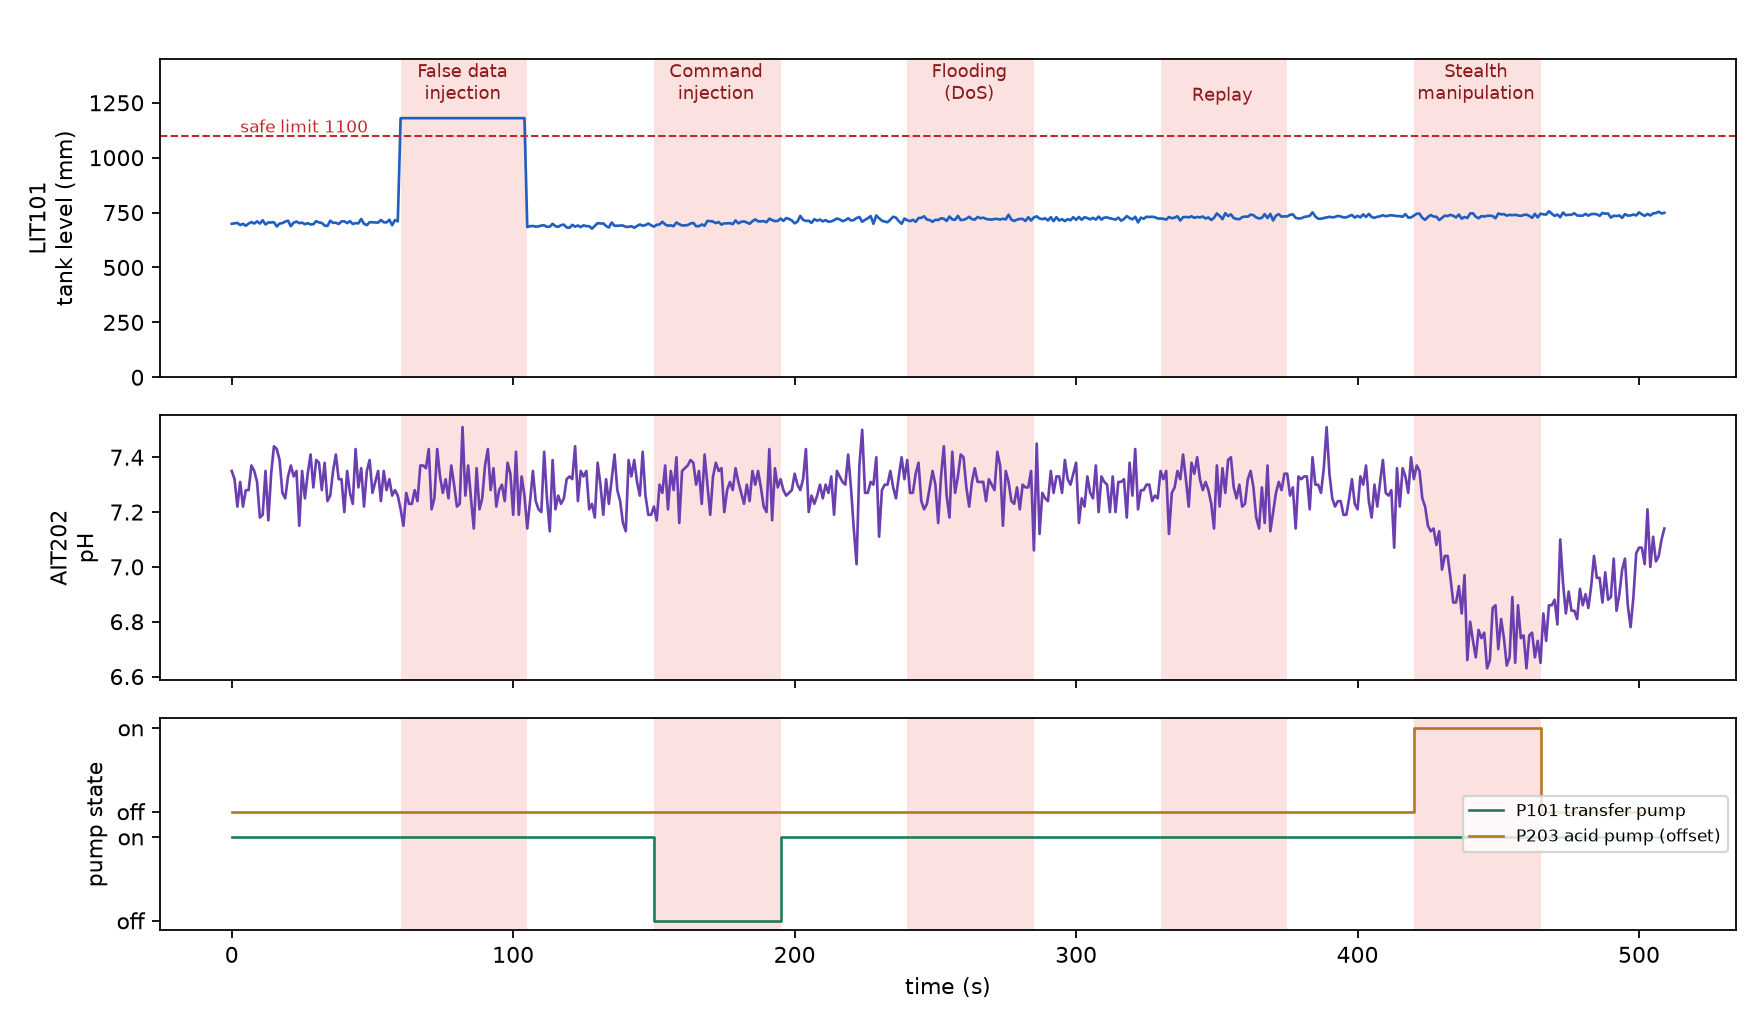
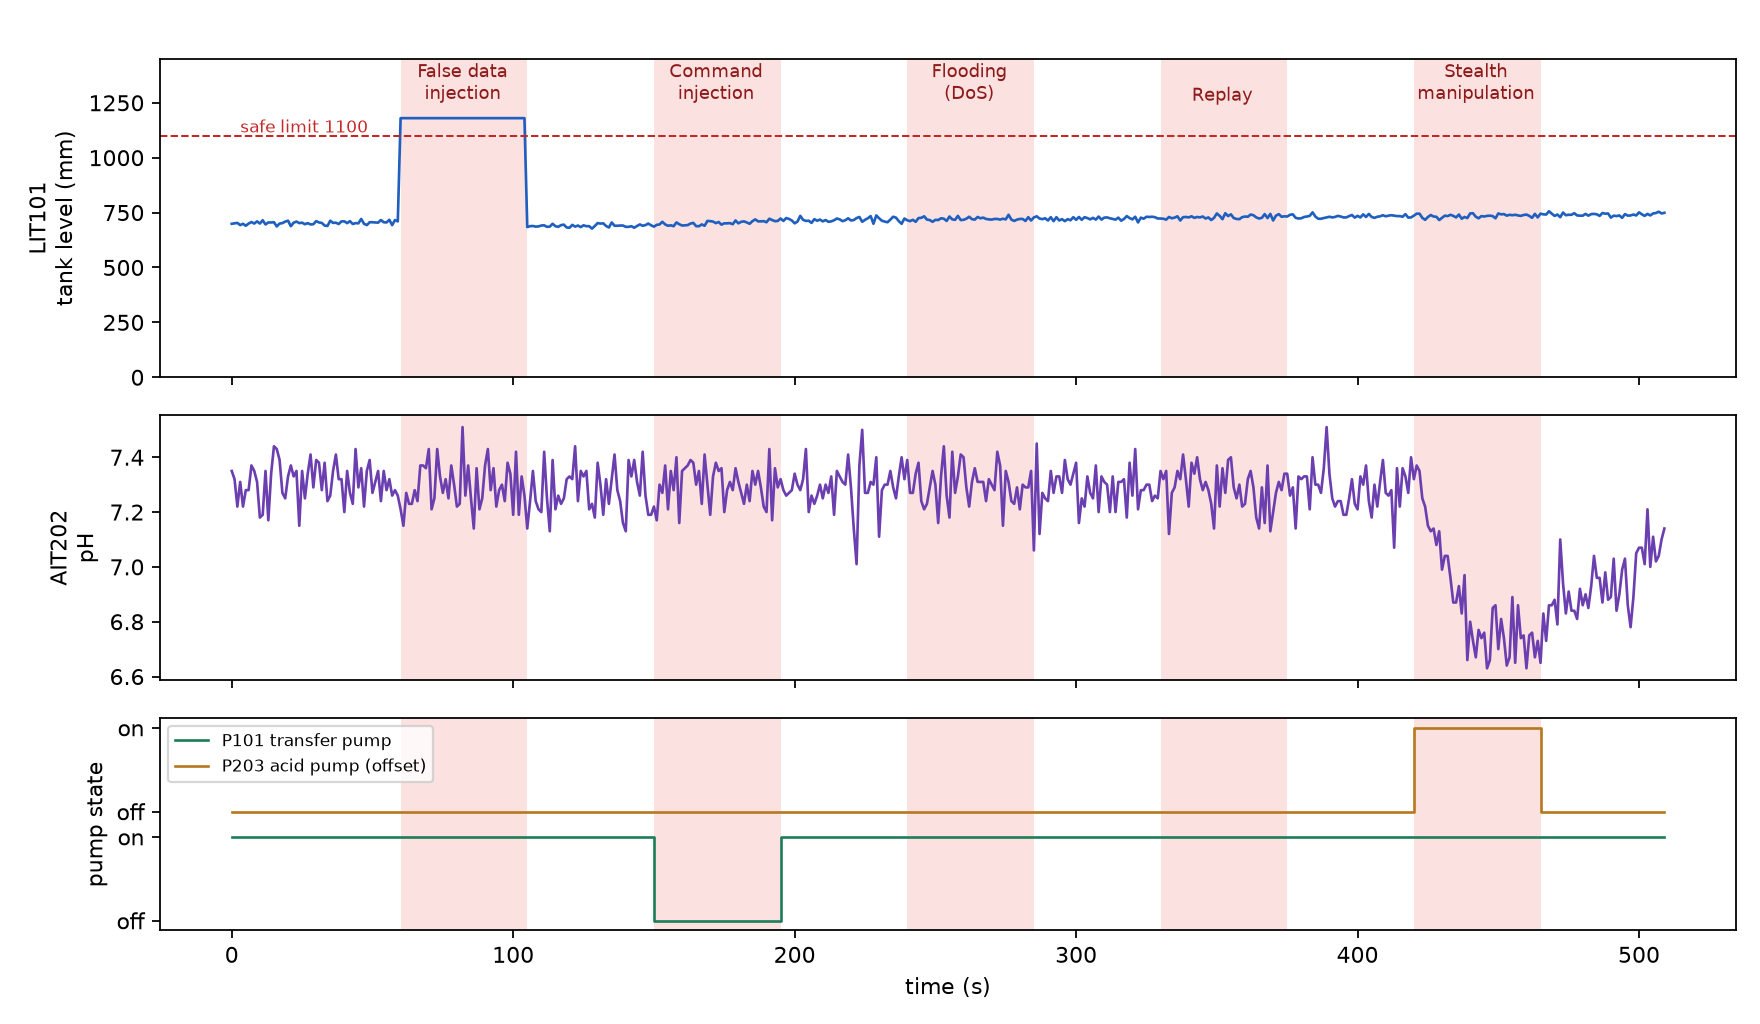
Correct docs that described parts that were never built
README and docs/protocol-substitution.md still carried planning-stage claims:
tshark packet capture on a Docker bridge, Scapy replay, a PostgreSQL-backed
dashboard, OpenPLC programs in plc/, and a FabricLedger. None were implemented.
They now say what was built: the network log is written by the traffic
generator with the fields a packet decoder would extract, replay re-sends the
controller's most recent command through pymodbus, the ledger lives in memory or
a JSON-lines file, and the Docker/OpenPLC/PostgreSQL services are prepared but
unused. The attack table now lists the five implemented scenarios and notes the
multi-point attack was not implemented. Replay wording in results.md clarified.
Architecture figure label changed from "tap" to "request log".

Changed region(s): [[0.8125, 0.75, 0.9688, 0.8438], [0.0938, 0.6875, 0.25, 0.7812]]

diff --git a/eval/evaluate.py b/eval/evaluate.py
@@ -199,9 +199,10 @@ def make_plots(r: dict, out_dir: str) -> list[str]:
     ax.bar(list(x), prec, w, label="Precision", color="#58a6ff")
     ax.bar([i + w for i in x], fpr, w, label="False-positive rate", color="#f85149")
     ax.set_xticks(list(x)); ax.set_xticklabels(names)
-    ax.set_ylim(0, 1.05); ax.set_ylabel("score")
+    ax.set_ylim(0, 1.18); ax.set_yticks([0, 0.2, 0.4, 0.6, 0.8, 1.0])
+    ax.set_ylabel("score")
     ax.set_title("Detection-in-depth ablation (per-second)")
-    ax.legend(); fig.tight_layout()
+    ax.legend(loc="upper center", ncol=3, frameon=False); fig.tight_layout()
     p1 = os.path.join(out_dir, "ablation.png")
     fig.savefig(p1, dpi=130); plt.close(fig); paths.append(p1)
 
@@ -218,9 +219,10 @@ def make_plots(r: dict, out_dir: str) -> list[str]:
                label=name, color=colors.get(name))
     ax.set_xticks([i + 0.4 - bw / 2 for i in range(len(classes))])
     ax.set_xticklabels([c.replace("_", "\n") for c in classes], fontsize=8)
-    ax.set_ylim(0, 1.05); ax.set_ylabel("recall")
+    ax.set_ylim(0, 1.18); ax.set_yticks([0, 0.2, 0.4, 0.6, 0.8, 1.0])
+    ax.set_ylabel("recall")
     ax.set_title("Per-attack-class recall by layer")
-    ax.legend(fontsize=8); fig.tight_layout()
+    ax.legend(loc="upper center", ncol=4, fontsize=8, frameon=False); fig.tight_layout()
     p2 = os.path.join(out_dir, "per_class_recall.png")
     fig.savefig(p2, dpi=130); plt.close(fig); paths.append(p2)
     return paths

diff --git a/report/make_figures.py b/report/make_figures.py
@@ -65,7 +65,7 @@ def architecture() -> str:
     box(ax, 69, 32, 97, 40, "Network log", "decoded Modbus transactions", "log")
     arrow(ax, 17, 51.4, 17, 40.6)
     arrow(ax, 64, 57, 83, 40.6)
-    ax.text(76.5, 49, "tap", fontsize=8.5, color="#555555", style="italic")
+    ax.text(74.5, 49, "request log", fontsize=8.5, color="#555555", style="italic")
 
     # --- detection layer --------------------------------------------------
     box(ax, 3, 17, 31, 25.5, "LSTM autoencoder", "stealthy / unseen behaviour", "lstm")
@@ -136,7 +136,7 @@ def dataset_timeline(device_log: str = "data/run1/device_log.csv") -> str:
     axes[2].step(t, [v + 1.3 for v in p203], where="post", color="#b7791f", lw=1.2,
                  label="P203 acid pump (offset)")
     axes[2].set_yticks([0, 1, 1.3, 2.3]); axes[2].set_yticklabels(["off", "on", "off", "on"])
-    axes[2].set_ylabel("pump state"); axes[2].legend(loc="center right", fontsize=7.5)
+    axes[2].set_ylabel("pump state"); axes[2].legend(loc="upper left", fontsize=7.5)
     axes[2].set_xlabel("time (s)")
     fig.tight_layout(rect=(0, 0, 1, 0.97))
     p = os.path.join(OUT, "dataset_timeline.png")

diff --git a/README.md b/README.md
@@ -10,28 +10,29 @@ simulated multi-stage water-treatment plant. Combines three cooperating layers:
 3. **Tamper-evident ledger** — a signed hash-chain (Hyperledger Fabric optional)
    giving a forensic, tamper-evident audit trail of every command and alert.
 
-Plus an operator dashboard (FastAPI + PostgreSQL) and a quantitative evaluation
+Plus an operator dashboard (FastAPI + WebSocket) and a quantitative evaluation
 (precision / recall / FPR / detection latency) against single-layer baselines.
 
-> **No physical hardware.** The plant is a Python physics model driving a real
-> **Modbus TCP** network on a Docker bridge, so the packets the DPI layer
-> inspects are genuine. See `docs/` for the protocol-substitution rationale
-> (Modbus in place of ENIP/CIP) and the full plan.
+> **No physical hardware.** The plant is a Python physics model that exchanges
+> real **Modbus TCP** traffic with a Python controller and an attacker over local
+> TCP connections. The DPI layer inspects a log of those requests, written by the
+> traffic generator with the fields a packet decoder would extract (a `tshark`
+> packet capture was not implemented). See `docs/` for the protocol-substitution
+> rationale (Modbus in place of ENIP/CIP).
 
 ## Architecture
 
 ```
-[ Python physics sim ] <--registers--> [ soft-PLC / OpenPLC control logic ]
-        |                                          |
-        +------------ Modbus TCP (Docker bridge, SPAN tap = tshark) ---------+
-             |                    |                      |
-      [ Rule DPI ]        [ LSTM detector ]      [ NetFlow/DoS monitor ]
-             \                    |                      /
-              +--------> [ correlator / alert bus ] <---+
-                                  |
-                       [ hash-chain ledger ] --(optional)--> [ Fabric ]
-                                  |
-                    [ FastAPI + PostgreSQL + WebSocket dashboard ]
+[ Python plant simulator ] <--- Modbus TCP ---> [ Python controller (HMI) ]
+                                   ^
+                                   |  [ attacker ]
+        device log (1 Hz)          |  network log (every request, decoded)
+               |                   |          |
+       [ LSTM detector ]    [ Rule DPI ]   [ NetFlow/DoS monitor ]
+               \                   |          /
+                +------> [ correlator ] <----+
+                         |              |
+          [ hash-chain ledger ]   [ FastAPI + WebSocket dashboard ]
 ```
 
 ## Status
@@ -78,9 +79,10 @@ python -m net.generate_dataset --out-dir data/run1 --speedup 0
 Produces `network_log.csv` (decoded Modbus transactions, for the DPI engine) and
 `device_log.csv` (per-second historian record, for the LSTM). Both carry a
 ground-truth `label` column. Schema and attack-class details in
-[`data/README.md`](data/README.md). The network log is captured at the
-application layer (equivalent to decoding a pcap); a real `tshark` pcap capture on
-the Docker bridge is an optional WSL/Linux path yielding the same schema.
+[`data/README.md`](data/README.md). The network log is written by the generator
+itself, which records each Modbus request it sends with the fields a packet
+decoder would extract. Capturing the frames with `tshark` and decoding the pcap
+would give the same schema but was not implemented.
 
 ## Protocol-aware DPI rule engine (Phase 4)
 
@@ -206,28 +208,28 @@ python -m venv .venv
 .venv\Scripts\python -m pytest -q
 ```
 
-## Run the testbed with Docker
+## Docker (prepared, not used by the experiments)
 
-```bash
-docker compose up plant postgres          # plant on :5020, Postgres on :5432
-docker compose --profile plc up           # add OpenPLC (drive plant with --no-control)
-```
-
-To hand actuator control to OpenPLC instead of the built-in soft-PLC, start the
-plant with `--no-control` and upload the Structured Text program from `plc/`.
+`docker-compose.yml` defines the plant service plus optional OpenPLC and
+PostgreSQL services that were set up for future work. None of the experiments
+use them: control is done by the Python controller, the ledger is kept in memory
+or a JSON-lines file, and no OpenPLC program has been written yet (`plc/` is
+empty). The plant's `--no-control` flag is there so an external PLC can take
+over the actuators later.
 
 ## Layout
 
 ```
 sim/       plant physics (plant.py), register map (register_map.py), Modbus server
-plc/       OpenPLC Structured Text control programs
-net/       tshark capture + Scapy attack scripts (replay / FDI / flood)
+net/       actors, attack scenarios, transaction schema, dataset generator
 detect/    dpi/ (rule engine)  lstm/ (sequence model)  netflow/  correlator/
-ledger/    LedgerBackend interface, HashChainLedger, FabricLedger (stretch)
+ledger/    LedgerBackend interface and HashChainLedger
 app/       FastAPI backend + WebSocket dashboard
-data/      generated datasets + pcaps (gitignored) ; public datasets under data/public
-eval/      metrics, ablation, plots
-docs/      architecture + protocol-substitution rationale + results
+eval/      metrics, ablation, HAI validation, plots
+report/    figure generator and figures for the final report
+demo/      demo GIF / video generators
+data/      generated datasets (gitignored); public datasets under data/public
+docs/      protocol-substitution rationale, results, HAI validation
 tests/     pytest suite
 ```
 

diff --git a/docs/protocol-substitution.md b/docs/protocol-substitution.md
@@ -31,34 +31,34 @@ and whether it is a sensor or an actuator.
 
 ## Why Modbus is the better choice for a software-only testbed
 
-1. **Real packets, real DPI.** pymodbus produces genuine, standards-conformant
-   Modbus TCP frames over a Docker bridge. tshark captures them and the rule
-   engine decodes them for real — no synthetic packet stream that would make the
-   protocol-aware contribution hollow.
-2. **Toolchain maturity.** Modbus has first-class support in pymodbus, Scapy,
-   Wireshark/tshark, and OpenPLC, so every layer (simulation, capture, attack
-   crafting, DPI) uses real tooling rather than hand-rolled ENIP.
+1. **Real traffic.** pymodbus exchanges genuine, standards-conformant Modbus TCP
+   requests between the controller, the attacker and the plant. The traffic
+   generator logs each request with the fields a packet decoder would extract
+   (source, function code, register, value), and the rule engine decodes those
+   records. Capturing the frames with tshark and decoding the pcap would produce
+   the same records; that step was not implemented.
+2. **Toolchain maturity.** Modbus is supported by pymodbus (used here) and by
+   Scapy, Wireshark/tshark and OpenPLC, which were not needed for this
+   implementation but make it straightforward to extend.
 3. **Same reference testbed lineage.** SWaT itself uses both CIP and Modbus at
    different stages; AFAD (the second reference paper) evaluates on a **Modbus
    dataset** explicitly. Modbus is squarely within the papers' scope.
 
 ## Mapping the proposal's attack table onto Modbus
 
-| Proposal attack class | CIP form | Modbus form in this testbed |
+| Proposal attack class | CIP form | Implemented in this testbed |
 |---|---|---|
-| Single-point sensor spoofing (LIT101) | Write_Tag_Service to level tag | `write_register` to LIT101 address, value outside safe band |
-| Multi-point coordinated (LIT101+MV101+P101) | multiple CIP writes | burst of `write_register`/coil writes across addresses |
-| Stealthy process manip (AIT202 pH mask) | value-masking write | write that keeps registers plausible while physics diverges (LSTM layer) |
-| Replay | replayed CIP frame | Scapy replay of captured Modbus write frames |
-| Command injection / insider | unauthorized Write_Tag_Service | `write_register` from a source that is not the authorised HMI |
-| Flooding / DoS | ENIP flood | Modbus request flood (NetFlow/DoS layer) |
+| Single-point sensor spoofing (LIT101) | Write_Tag_Service to level tag | False data injection: `write_register` to LIT101 with 1180 mm, above its safe range |
+| Multi-point coordinated (LIT101+MV101+P101) | multiple CIP writes | Not implemented as a separate scenario |
+| Stealthy process manipulation | value-masking write | Compromised HMI holds the HCl dosing pump P203 on from the authorised address (valid command, visible only in process behaviour) |
+| Replay | replayed CIP frame | Attacker re-sends the controller's most recent recorded write through pymodbus |
+| Command injection / insider | unauthorized Write_Tag_Service | `write_register` forcing pump P101 off from a source that is not the authorised HMI |
+| Flooding / DoS | ENIP flood | 40 read requests per second from the attacker (NetFlow layer) |
 
-## Optional extension
+## Possible extension
 
-If Phase 4 finishes ahead of schedule, an ENIP field-layer emulation can be added
-behind the same `Decoder` interface used for Modbus, so the DPI rule engine
-consumes decoded writes identically regardless of wire protocol. This keeps the
-door open to a direct ENIP demonstration without putting it on the critical path.
+An ENIP/CIP decoder could produce the same transaction records as the Modbus
+path, so the DPI rules would apply unchanged. This was not implemented.
 
 ## What to write in the report
 

diff --git a/docs/results.md b/docs/results.md
@@ -41,9 +41,11 @@ are covered by another:
   see it; the NetFlow volume monitor catches it.
 - **Stealth** is a protocol-valid command from the authorised HMI address, so DPI
   cannot flag it; the LSTM catches the abnormal process behaviour it causes.
-- **Replay** re-sends a legitimate command, so the process behaves normally and
-  the LSTM sees nothing; DPI catches it because it comes from an unauthorised
-  source.
+- **Replay** re-sends the controller's most recent legitimate command. That
+  command already matches what the controller wants, so the process behaves
+  normally and the LSTM sees nothing; DPI catches it because it comes from an
+  unauthorised source. (Replaying an old, out-of-context command would disturb
+  the process; this scenario does not test that.)
 
 ## Detection latency (seconds to first alert)
 
